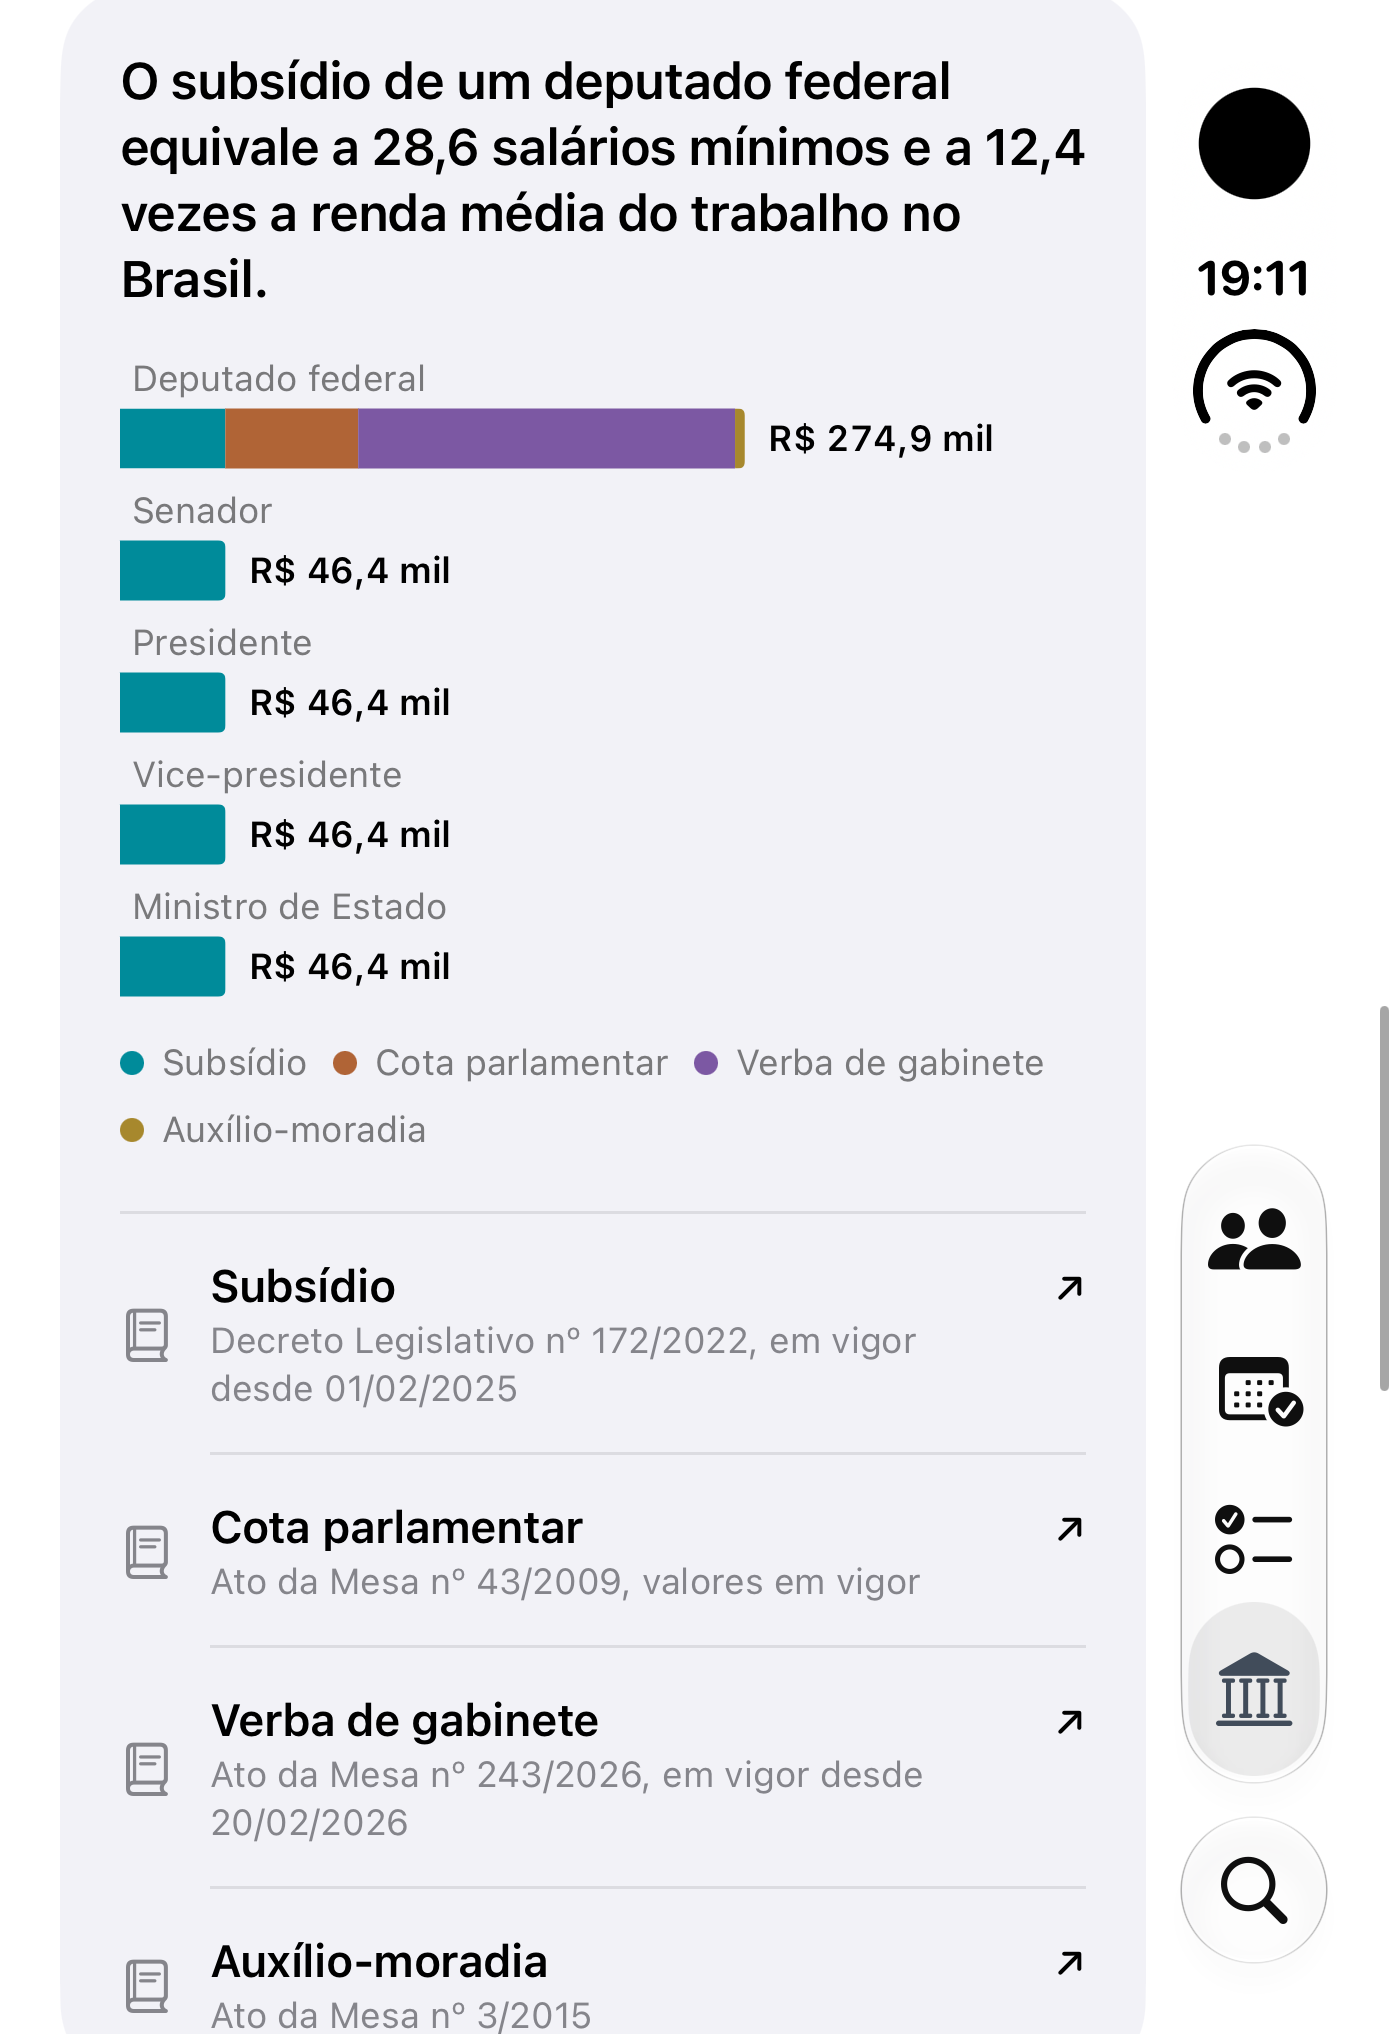
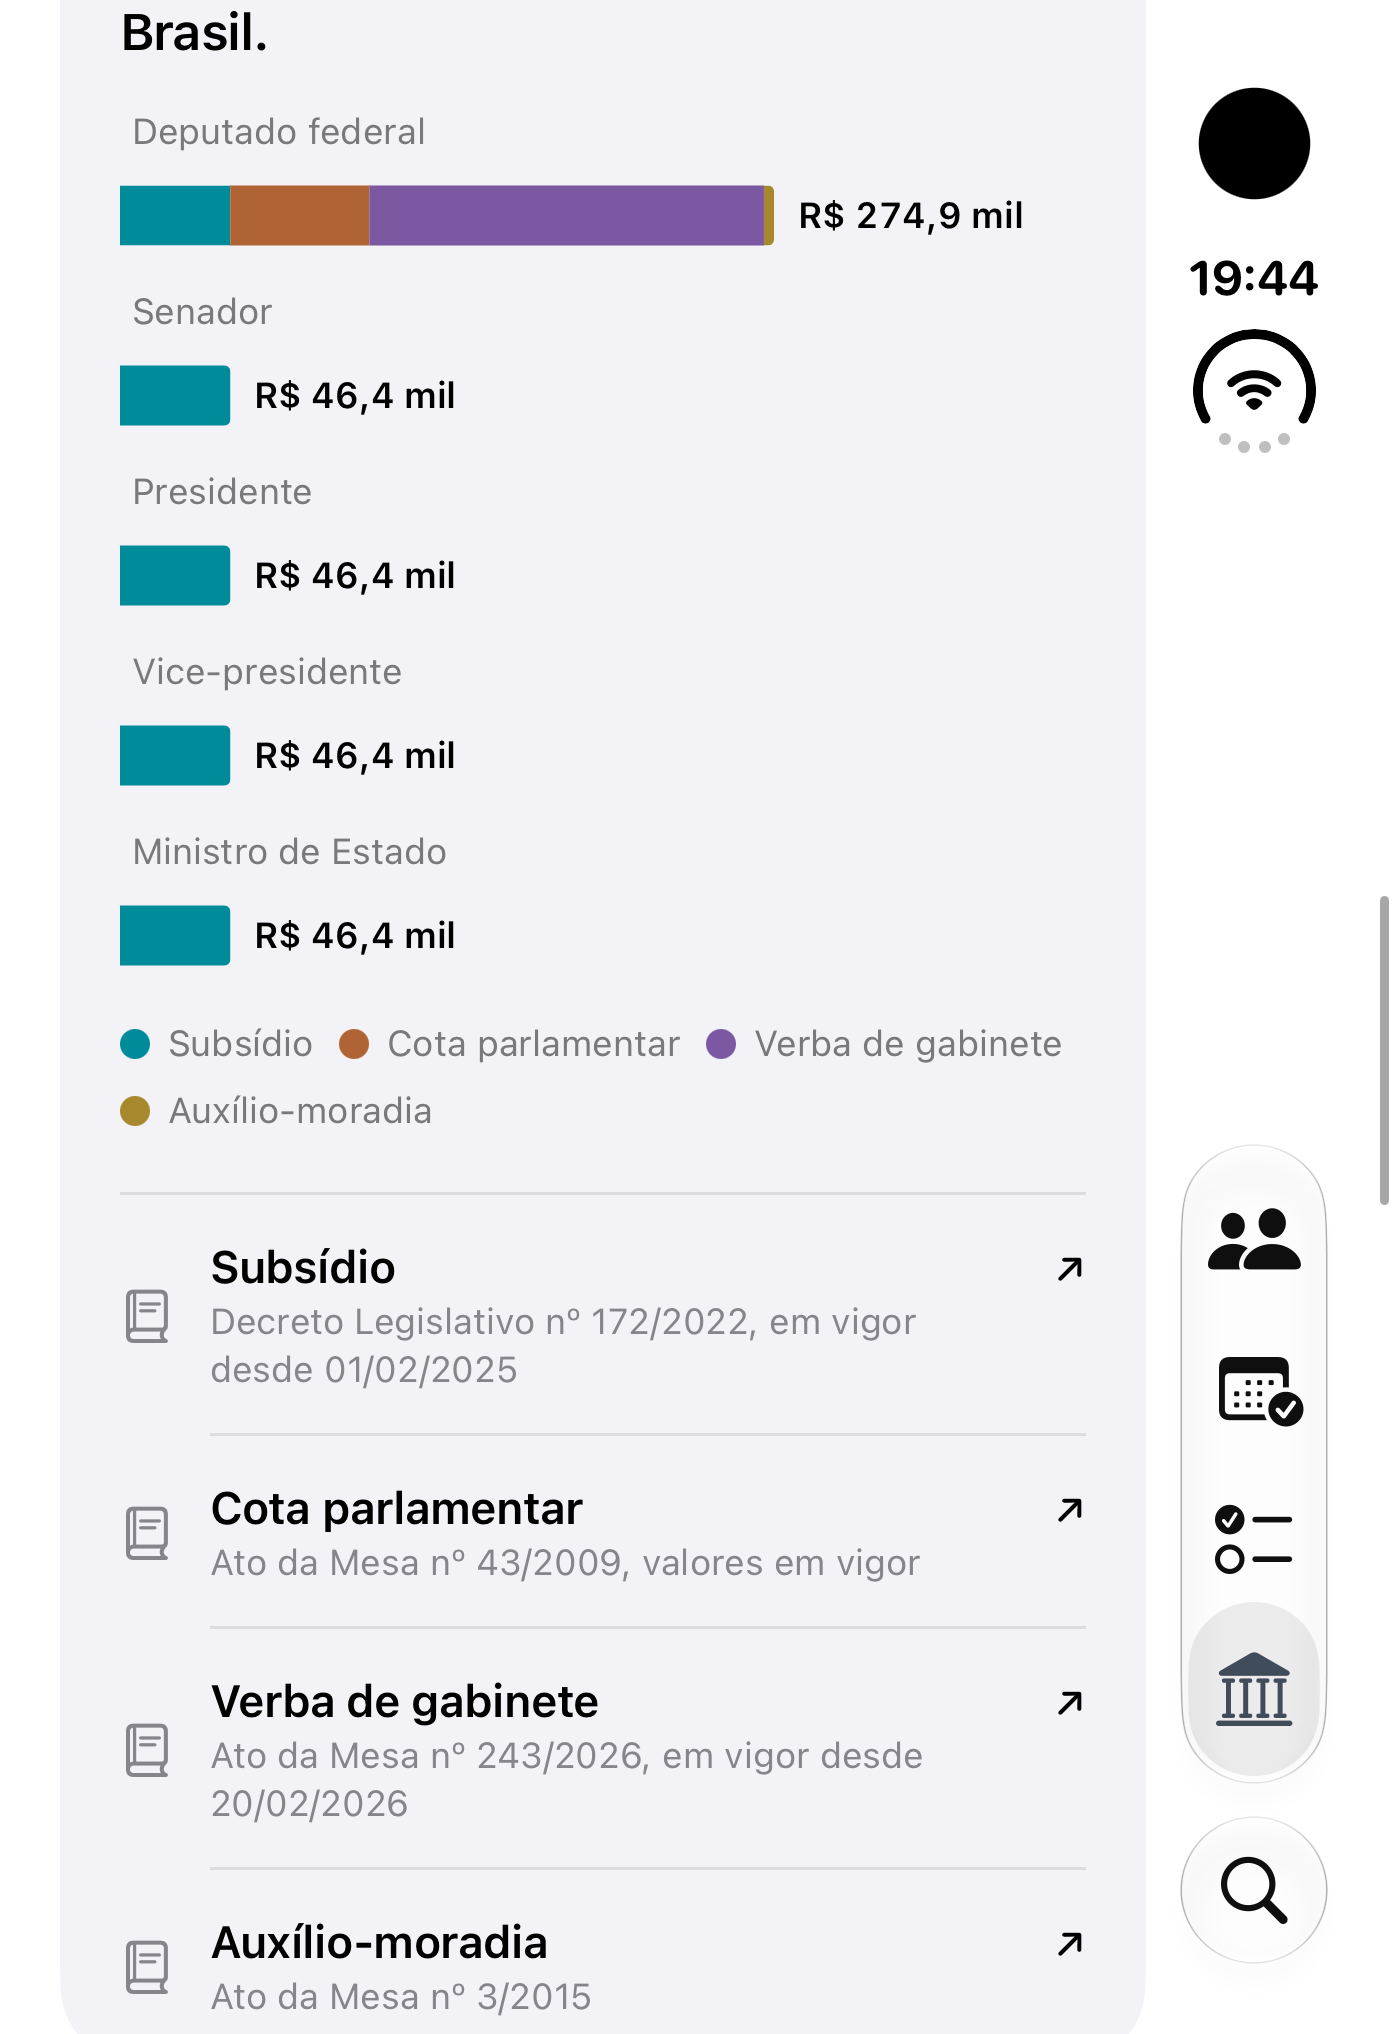
Give each mandate row room so the office name clears the bar above
The office name sat against the previous bar. Each row is taller now, with the
legend closer to the last bar. Also fixes the content test for the plain
headline.

Canvas: spdd/prompt/FSC-011-202611011855-[Feat]-navigation-links-charts-refinements.md
Canvas-update: prompt-update

diff --git a/FiscalKit/Sources/FeatureMoney/MandateCharts.swift b/FiscalKit/Sources/FeatureMoney/MandateCharts.swift
@@ -6,7 +6,7 @@ import SwiftUI
 
 struct MandateStackChart: View {
     @ReducesMotion private var reduceMotion
-    @ScaledMetric(relativeTo: .caption) private var rowHeight: CGFloat = .badgeL
+    @ScaledMetric(relativeTo: .caption) private var rowHeight: CGFloat = .mandateRowHeight
     @ScaledMetric(relativeTo: .caption) private var labelRoom: CGFloat = .chartLabelRoom
     @State private var revealed = false
     @State private var scrubbed: String?
@@ -27,7 +27,7 @@ struct MandateStackChart: View {
             if let focused {
                 ChartCallout(title: focused.title, value: focused.monthly) { EmptyView() }
             }
-            VStack(alignment: .leading, spacing: .spaceM) {
+            VStack(alignment: .leading, spacing: .spaceS) {
                 chart
                 MandateLegend(kinds: kinds)
             }
@@ -99,7 +99,7 @@ private struct MandateLegend: View {
                 HStack(spacing: .spaceXS) {
                     Circle()
                         .fill(MandateText.kindColor(kind))
-                        .frame(width: .spaceS, height: .spaceS)
+                        .frame(width: .chartLegendSwatch, height: .chartLegendSwatch)
                     Text(verbatim: MandateText.kindTitle(kind))
                         .font(.caption)
                         .foregroundStyle(.secondary)

diff --git a/FiscalKit/Tests/FeatureContentTests/ContentDetailModelTests.swift b/FiscalKit/Tests/FeatureContentTests/ContentDetailModelTests.swift
@@ -72,7 +72,7 @@ struct ContentDetailModelTests {
         let model = ContentDetailModel(highlightID: item.id, service: service)
         await model.load()
         #expect(model.phase == .loaded)
-        #expect(model.content?.title == item.title)
+        #expect(model.content?.title == item.plainSummary ?? item.title)
         #expect(model.content?.method == list.method)
         #expect(model.shareRoute == .share(.highlight(id: item.id)))
     }

diff --git a/FiscalKit/Sources/FiscalDesignSystem/Tokens/MoneyChartTokens.swift b/FiscalKit/Sources/FiscalDesignSystem/Tokens/MoneyChartTokens.swift
@@ -2,6 +2,7 @@ import SwiftUI
 
 extension CGFloat {
     public static let chartStripHeight: CGFloat = 28
+    public static let mandateRowHeight: CGFloat = 60
     public static let chartLabelRoom: CGFloat = 104
     public static let chartStemWidth: CGFloat = 3
     public static let chartLineWidth: CGFloat = 2.5

diff --git a/spdd/prompt/FSC-011-202611011855-[Feat]-navigation-links-charts-refinements.md b/spdd/prompt/FSC-011-202611011855-[Feat]-navigation-links-charts-refinements.md
@@ -39,7 +39,7 @@ Primeira das quatro fases da [análise FSC-011](../analysis/FSC-011-202611011850
 
 **Gráficos**
 
-21. Dado "Quanto custa um mandato", quando o gráfico aparece, então a distância entre a última barra e a legenda é de um `.spaceM` mais a folga natural da linha da barra, e a legenda quebra em várias linhas sem cortar texto.
+21. Dado "Quanto custa um mandato", quando o gráfico aparece, então o nome do cargo fica nitidamente afastado da barra de cima, sem encostar nela; a distância entre a última barra e a legenda é de um `.spaceS` mais a folga natural da linha da barra; e a legenda quebra em várias linhas sem cortar texto.
 22. Dado "Teto da cota por estado", quando o gráfico aparece, então não há siglas no eixo horizontal; tocar numa barra mostra o estado e o valor, e o VoiceOver lê cada estado.
 
 ## Entities
@@ -180,7 +180,7 @@ classDiagram
    - `MineSeat.standsAlone` e `Spacer` acima do titular nesse caso.
    - Cobre: 19, 20. Verificação: `MineFollowingTests`, captura com e sem vice.
 4. **Gráficos.** `[P]` com 2.
-   - `MandateStackChart`: `.chartLegend(.hidden)`, altura só das barras e legenda em `FlowLayout`, oculta do VoiceOver, porque cada barra já diz o item.
+   - `MandateStackChart`: `.chartLegend(.hidden)`, linha mais alta com o token `mandateRowHeight`, altura só das barras e legenda em `FlowLayout`, oculta do VoiceOver, porque cada barra já diz o item.
    - `QuotaStatesChart`: `.chartXAxis(.hidden)`, sem o caso de fonte grande.
    - Cobre: 21, 22. Verificação: captura no simulador; `FeatureMoneyTests`.
 5. **`ContentDetail`.**
